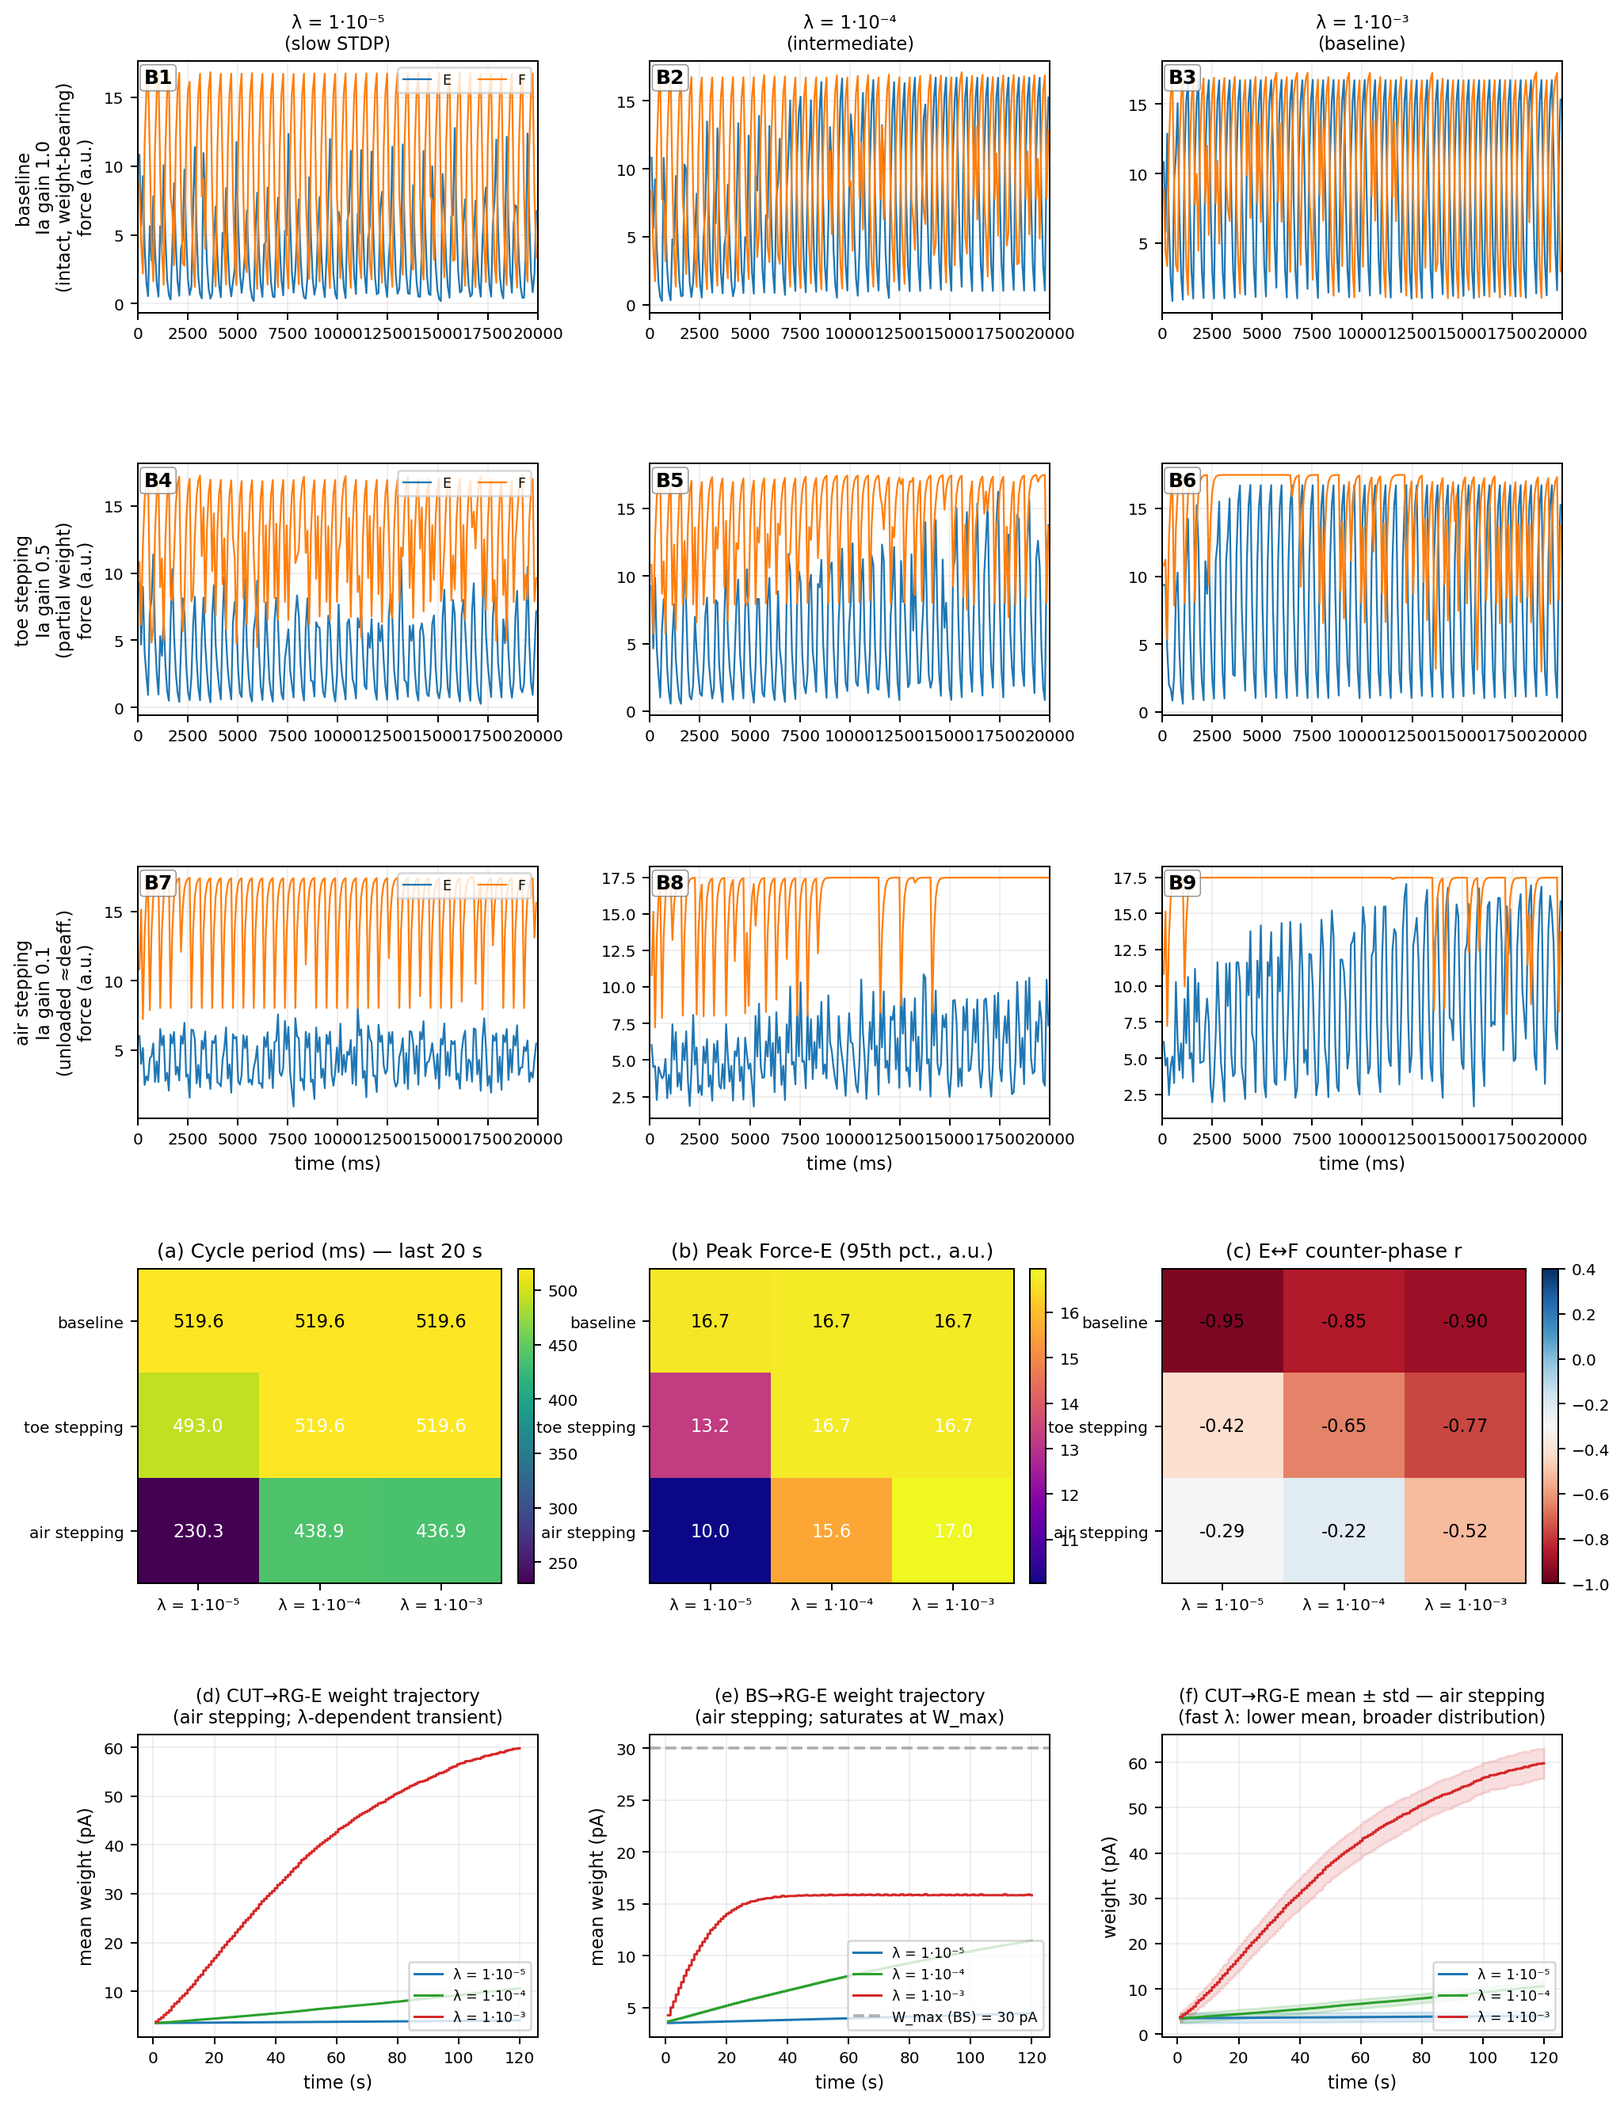
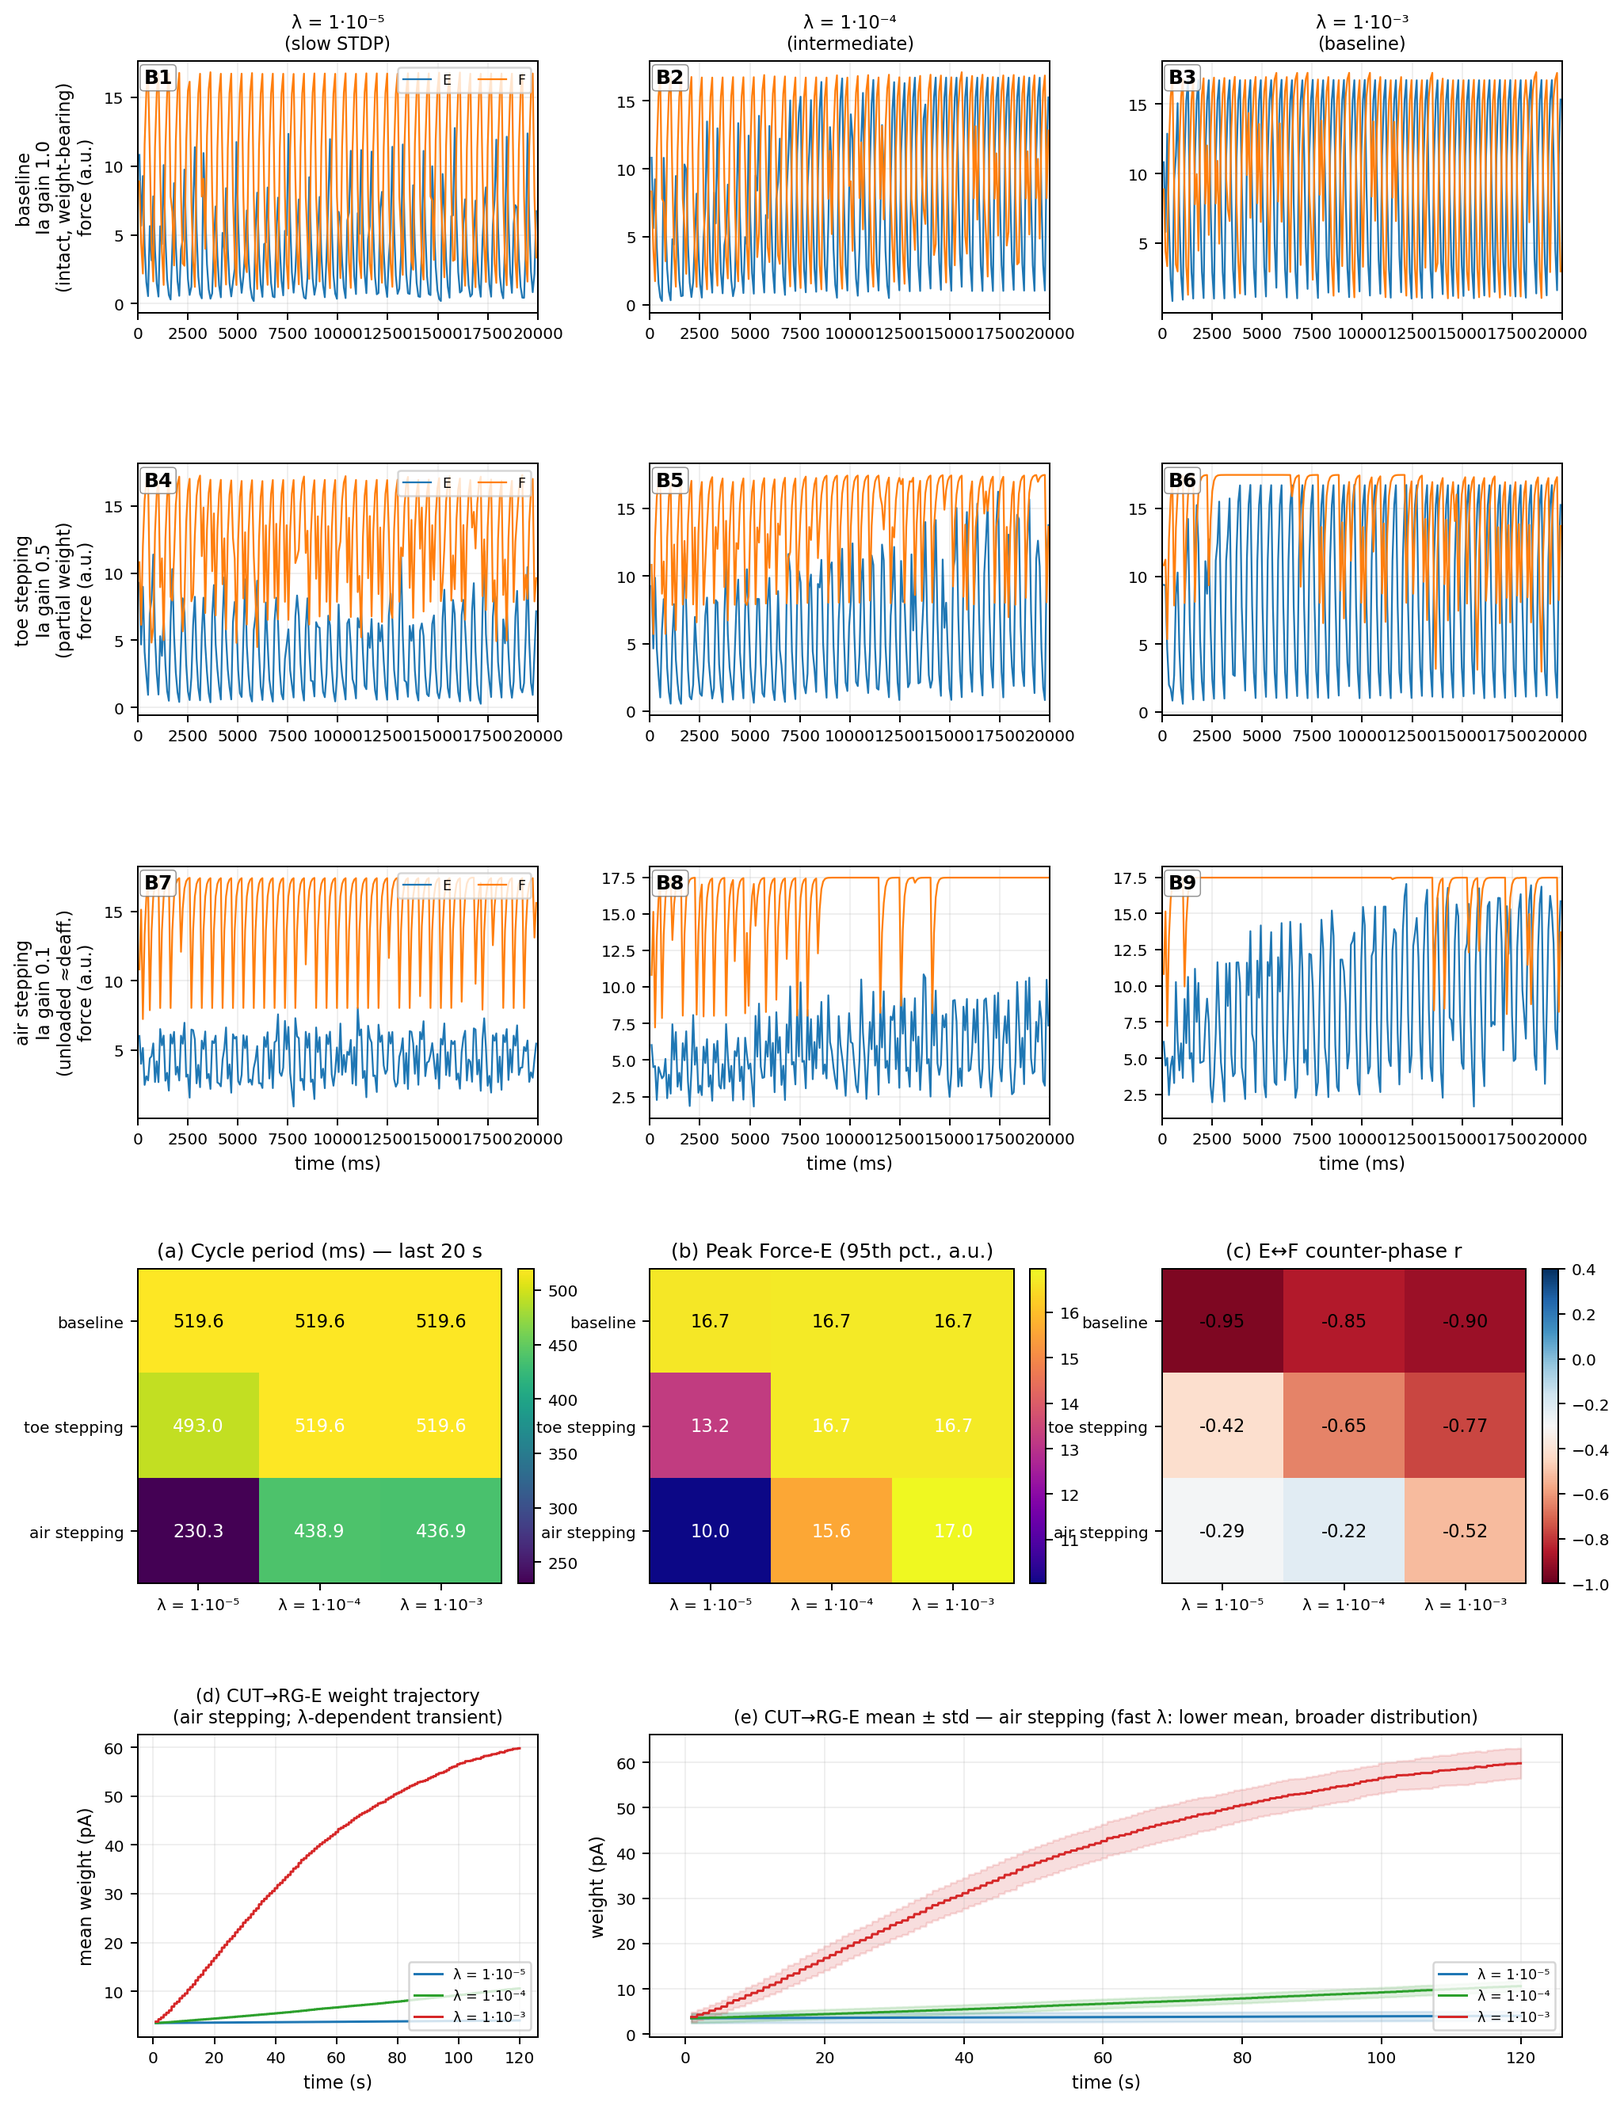
Unify network activity onto the 5-mode matrix; strip BS->RG-E from the ablation figure
- New cpg_network_matrix.py -> fig_network_matrix.png: full-circuit population
  activity (16 groups, both legs) x the five locomotion modes as columns
  (slow / medium=plantar=baseline / fast walk, toe / air stepping), canonical
  sensory arm, no in-figure title. Replaces the five separate per-arm network
  figures (fig_network_speed/sensory/ablstim/natural/ablsens, now git rm'd).
  §3.4 rewritten around the single matrix; caption notes the air-stepping
  extensor collapse in the rightmost column.
- cpg_ablation_graded_figure.py: removed the BS->RG-E weight panel (e) (BS is
  frozen in the canonical model); the CUT mean±std panel spans its place and
  is relabelled; §3.5 caption updated.

Figure count 16 -> 12; Overleaf zip rebuilt (results todo-free, all refs resolve).

Changed region(s): [[0.4059, 0.8116, 0.9678, 0.9989], [0.3434, 0.874, 0.3746, 0.9364]]

diff --git a/paper/sections/results.tex b/paper/sections/results.tex
@@ -325,75 +325,40 @@ rat locomotor speed range without retuning of the central architecture.
 % =============================================================
 \subsection{Network-level activity: every population alternates in counter-phase across all modes}\label{sec:results:network}
 
-\paragraph{Full-circuit population rates.}
+\paragraph{Full-circuit population rates across the five modes.}
 Behind the muscle-force output, the counter-phase organisation is
-expressed at every level of the circuit. Figs.~\ref{fig:net_speed}--%
-\ref{fig:net_ablsens} show the population firing rates of all sixteen
-recorded groups --- both legs' RG-F/RG-E rhythm generators, InF/InE
-reciprocal-inhibition interneurons, IaInt-F/IaInt-E proprioceptive
-interneurons, and M-F/M-E motor pools --- over the last few cycles of
-each 120\,s run. Three features are consistent across all five learning
-modes and all conditions: (i) within each leg, every flexor-side
+expressed at every level of the circuit. Fig.~\ref{fig:net_matrix} shows
+the population firing rates of all sixteen recorded groups --- both legs'
+RG-F/RG-E rhythm generators, InF/InE reciprocal-inhibition interneurons,
+IaInt-F/IaInt-E proprioceptive interneurons, and M-F/M-E motor pools ---
+over the last few cycles, across the five locomotion modes of the
+canonical (sensory) model. Three features hold across slow, medium and
+fast walk and under toe stepping: (i) within each leg every flexor-side
 population fires in strict antiphase to its extensor-side counterpart;
 (ii) the two legs hold a $180^{\circ}$ offset (right-leg panels, tinted,
 are half a cycle out of phase with the left); and (iii) the reciprocal
 InF/InE and IaInt interneurons carry the same clean alternation as the
-rhythm generators, confirming that the inhibitory core --- not just the
-motor read-out --- is phase-locked. The descending (Fig.~\ref{fig:net_speed})
-and sensory-sited (Fig.~\ref{fig:net_sensory}) arms are essentially
-indistinguishable at the population level across the speed range, and the
-loading arms (Figs.~\ref{fig:net_ablstim}--\ref{fig:net_ablsens}) show the
-same organisation at baseline loading; where it degrades under unloading
-is quantified in \autoref{sec:results:ablation} and
-\autoref{sec:results:sensory}.
+rhythm generators, so the inhibitory core --- not just the motor read-out
+--- is phase-locked. The exception is the rightmost column: under
+\emph{air} stepping the loading-gated afferent drive is withdrawn and the
+extensor-side populations (RG-E, InE, IaInt-E, M-E) collapse while the
+intrinsically-bursting flexor side persists --- the population-level
+signature of the unloading failure quantified in
+\autoref{sec:results:ablation} and \autoref{sec:results:sensory}.
 
 \begin{figure}[t]
   \centering
-  \includegraphics[width=0.8\textwidth]{fig_network_speed.png}
-  \caption{\textbf{Descending arm --- full-circuit population activity
-    across walking speed.} Rows: both legs' RG-F/RG-E, InF/InE,
-    IaInt-F/IaInt-E, M-F/M-E (spikes$\cdot$neuron$^{-1}\cdot$s$^{-1}$).
-    Columns: slow / medium / fast walk. Last 5 cycles;
-    $\lambda=10^{-3}$, $\mu=3.5$, CV$=0.30$. Right-leg panels tinted.}
-  \label{fig:net_speed}
-\end{figure}
-
-\begin{figure}[t]
-  \centering
-  \includegraphics[width=0.8\textwidth]{fig_network_sensory.png}
-  \caption{\textbf{Sensory arm (plastic Ia$\to$RG, frozen BS) ---
-    full-circuit population activity across walking speed.} Same layout as
-    Fig.~\ref{fig:net_speed}; indistinguishable from the descending arm at
-    the population level.}
-  \label{fig:net_sensory}
-\end{figure}
-
-\begin{figure}[t]
-  \centering
-  \includegraphics[width=0.8\textwidth]{fig_network_ablstim.png}
-  \caption{\textbf{Epidural-stim arm --- population activity across
-    loading} (baseline / toe / air stepping). Cutaneous drive held intact;
-    the counter-phase organisation is preserved as loading is removed.}
-  \label{fig:net_ablstim}
-\end{figure}
-
-\begin{figure}[t]
-  \centering
-  \includegraphics[width=0.8\textwidth]{fig_network_natural.png}
-  \caption{\textbf{Natural (unassisted) arm --- population activity across
-    loading.} Cutaneous and Ia drive gated together by loading; the rhythm
-    degrades as the limb is unloaded (air column).}
-  \label{fig:net_natural}
-\end{figure}
-
-\begin{figure}[t]
-  \centering
-  \includegraphics[width=0.8\textwidth]{fig_network_ablsens.png}
-  \caption{\textbf{Sensory-ablation arm --- population activity across
-    loading.} Plastic Ia$\to$RG with loading-gated Ia; self-rescues toe
-    stepping but degrades under air stepping as the Ia learning drive is
-    gated away.}
-  \label{fig:net_ablsens}
+  \includegraphics[width=0.98\textwidth]{fig_network_matrix.png}
+  \caption{\textbf{Full-circuit population activity across the five
+    locomotion modes} (canonical sensory model, $\lambda=10^{-3}$,
+    last 5 cycles). Rows: both legs' RG-F/RG-E, InF/InE, IaInt-F/IaInt-E,
+    M-F/M-E population rates (spikes$\cdot$neuron$^{-1}\cdot$s$^{-1}$);
+    right-leg rows tinted. Columns: the unified matrix --- slow /
+    medium\,$=$\,plantar\,$=$\,baseline / fast walk and toe / air stepping.
+    Every population alternates in strict counter-phase with a
+    $180^{\circ}$ interlimb offset through toe stepping; under air stepping
+    the extensor side collapses as the loading-gated afferents withdraw.}
+  \label{fig:net_matrix}
 \end{figure}
 
 % =============================================================
@@ -516,14 +481,13 @@ epidural-stim arm (Fig.~\ref{fig:epidural}, $-0.98$).
     (b) peak Force-E (a.u.);
     (c) E$\leftrightarrow$F counter-phase Pearson correlation
     --- strengthening with $\lambda$ under unloading.
-    \textbf{Row 5:} STDP weight trajectories at air
-    stepping. (d, e) mean CUT$\to$RG-E and BS$\to$RG-E weight vs time,
-    three $\lambda$ overlaid --- at the slow rate ($\lambda=10^{-5}$,
-    blue) the gated cutaneous drive learns to only CUT$\to$RG-E
-    $\approx 4$\,pA at $t=120$\,s (vs $\approx 60$\,pA at the baseline
-    rate), leaving the rhythm without a descending drive to fall back on
-    once the afferents are withdrawn. (f) CUT$\to$RG-E mean $\pm$
-    across-connection std for the three rates.}
+    \textbf{Row 5:} STDP weight trajectories at air stepping.
+    (d) mean CUT$\to$RG-E weight vs time, three $\lambda$ overlaid --- at
+    the slow rate ($\lambda=10^{-5}$, blue) the gated cutaneous drive
+    learns to only $\approx 4$\,pA at $t=120$\,s (vs $\approx 60$\,pA at
+    the baseline rate), leaving the rhythm without a learned drive to fall
+    back on once the afferents are withdrawn.
+    (e) CUT$\to$RG-E mean $\pm$ across-connection std for the three rates.}
   \label{fig:ablgrad}
 \end{figure}
 

diff --git a/cpg_network_matrix.py b/cpg_network_matrix.py
@@ -1,0 +1,95 @@
+#!/usr/bin/env python3
+"""
+cpg_network_matrix.py
+Full-circuit population activity of the canonical (sensory) model on the unified
+five-mode locomotion matrix: slow / medium=plantar=baseline / fast walk, toe /
+air stepping. Rows = both legs' RG, reciprocal-inhibition (In), Ia interneurons
+and motor pools (16 populations). No in-figure title (info -> LaTeX caption).
+"""
+import argparse, glob, os
+import h5py, numpy as np
+import matplotlib; matplotlib.use("Agg")
+import matplotlib.pyplot as plt
+
+# the five locomotion modes (canonical sensory arm): (label, filename stem, cycle period ms)
+COLS = [
+    ("slow walk\n6 cm/s",                    "cpg_sensory_stdp_06cms",   1200),
+    ("medium walk / plantar\n13.5 cm/s (baseline)", "cpg_sensory_stdp_13_5cms", 520),
+    ("fast walk\n21 cm/s",                   "cpg_sensory_stdp_21cms",    350),
+    ("toe stepping\npartial unloading",      "cpg_ablsens_toe",           520),
+    ("air stepping\nfull unloading",         "cpg_ablsens_air",           520),
+]
+ROWS = [
+    ("leg_L/rgf", "L RG-F"), ("leg_L/rge", "L RG-E"),
+    ("leg_L/inf", "L InF"),  ("leg_L/ine", "L InE"),
+    ("leg_L/iaint_f", "L IaInt-F"), ("leg_L/iaint_e", "L IaInt-E"),
+    ("leg_L/mus_f", "L M-F"), ("leg_L/mus_e", "L M-E"),
+    ("leg_R/rgf", "R RG-F"), ("leg_R/rge", "R RG-E"),
+    ("leg_R/inf", "R InF"),  ("leg_R/ine", "R InE"),
+    ("leg_R/iaint_f", "R IaInt-F"), ("leg_R/iaint_e", "R IaInt-E"),
+    ("leg_R/mus_f", "R M-F"), ("leg_R/mus_e", "R M-E"),
+]
+
+
+def _find(indir, stem, lam):
+    h = sorted(glob.glob(os.path.join(indir, f"{stem}_{lam}_*.h5")))
+    return h[0] if h else None
+
+
+def main():
+    ap = argparse.ArgumentParser()
+    ap.add_argument("--indir", required=True)
+    ap.add_argument("--lambda-tag", default="lam1em3")
+    ap.add_argument("--n-cycles", type=int, default=5)
+    ap.add_argument("--out", default="paper/figures/fig_network_matrix.png")
+    ap.add_argument("--dpi", type=int, default=170)
+    args = ap.parse_args()
+    os.makedirs(os.path.dirname(args.out) or ".", exist_ok=True)
+
+    files = {c[1]: _find(args.indir, c[1], args.lambda_tag) for c in COLS}
+    nr, nc = len(ROWS), len(COLS)
+    fig, axes = plt.subplots(nr, nc, figsize=(3.3 * nc, 0.92 * nr), squeeze=False, sharex="col")
+
+    for r, (key, rlabel) in enumerate(ROWS):
+        # shared y-scale across a row for comparability
+        ymax = 1.0
+        series = {}
+        for clabel, stem, per in COLS:
+            f = files[stem]
+            if f is None:
+                continue
+            with h5py.File(f, "r") as h:
+                if key not in h:
+                    continue
+                t = np.asarray(h["times_ms"]); y = np.asarray(h[key])
+                sim = float(h.attrs.get("sim_ms", t.max()))
+            z = max(0.0, sim - args.n_cycles * per)
+            m = t >= z
+            series[stem] = (t[m] - z, y[m], per)
+            ymax = max(ymax, float(np.nanpercentile(y[m], 99)) * 1.1)
+        for c, (clabel, stem, per) in enumerate(COLS):
+            ax = axes[r][c]
+            if stem in series:
+                tt, yy, per = series[stem]
+                ax.plot(tt, yy, color="#27408b", linewidth=0.9)
+                ax.set_xlim(0, args.n_cycles * per)
+            ax.set_ylim(0, ymax); ax.set_yticks([0, round(ymax)])
+            if rlabel.startswith("R "):
+                ax.set_facecolor("#f3f6fb")
+            if c == 0:
+                ax.set_ylabel(rlabel, rotation=0, ha="right", va="center",
+                              fontsize=9, labelpad=24)
+            if r == 0:
+                ax.set_title(clabel, fontsize=10, fontweight="bold")
+            if r == nr - 1:
+                ax.set_xlabel("time (ms, last cycles)", fontsize=8)
+            ax.tick_params(labelsize=6)
+
+    fig.tight_layout()
+    fig.savefig(args.out, dpi=args.dpi, bbox_inches="tight")
+    plt.close(fig)
+    print(f"[network-matrix] saved {args.out}")
+
+
+if __name__ == "__main__":
+    main()

diff --git a/cpg_ablation_graded_figure.py b/cpg_ablation_graded_figure.py
@@ -316,30 +316,14 @@ def main():
     ax_d.legend(loc="lower right", fontsize=7)
     ax_d.grid(alpha=0.2)
 
+    # (BS->RG-E panel removed: BS is frozen in the canonical sensory model.)
     if n_cols > 1:
-        ax_e = fig.add_subplot(gs[4, 1])
-        for l in LAMBDA_ORDER:
-            d = data.get((anchor_gain, l))
-            if d is None or "bs->rge_mean" not in d["weights"]:
-                continue
-            w = d["weights"]["bs->rge_mean"]
-            tt = d["t"][: w.size]
-            ax_e.plot(tt / 1000.0, w, color=lam_color[l], linewidth=1.2,
-                      label=LAMBDA_LABEL[l].split("\n")[0])
-        ax_e.axhline(30.0, linestyle="--", color="grey", alpha=0.6,
-                     label="W_max (BS) = 30 pA")
-        ax_e.set_xlabel("time (s)"); ax_e.set_ylabel("mean weight (pA)")
-        ax_e.set_title("(e) BS→RG-E weight trajectory\n(air stepping; saturates at W_max)")
-        ax_e.legend(loc="lower right", fontsize=7)
-        ax_e.grid(alpha=0.2)
-
-    if n_cols > 2:
-        # (f) CUT->RG-E mean ± std band at air stepping, λ overlaid. Reveals
+        # (e) CUT->RG-E mean ± std band at air stepping, λ overlaid. Reveals
         # the rescue mechanism: faster λ settles at a LOWER mean with a much
         # BROADER weight distribution (heterogeneous), which supports cleaner
         # counter-phase under degraded sensory feedback — the opposite of a
         # simple "stronger descending weight" account.
-        ax_f = fig.add_subplot(gs[4, 2])
+        ax_f = fig.add_subplot(gs[4, 1:])
         for l in LAMBDA_ORDER:
             d = data.get((anchor_gain, l))
             if d is None or "cut->rge_mean" not in d["weights"]:
@@ -353,7 +337,7 @@ def main():
                 ax_f.fill_between(tt / 1000.0, w - sd, w + sd,
                                   color=lam_color[l], alpha=0.15)
         ax_f.set_xlabel("time (s)"); ax_f.set_ylabel("weight (pA)")
-        ax_f.set_title("(f) CUT→RG-E mean ± std — air stepping\n(fast λ: lower mean, broader distribution)")
+        ax_f.set_title("(e) CUT→RG-E mean ± std — air stepping (fast λ: lower mean, broader distribution)")
         ax_f.legend(loc="lower right", fontsize=7)
         ax_f.grid(alpha=0.2)
 
